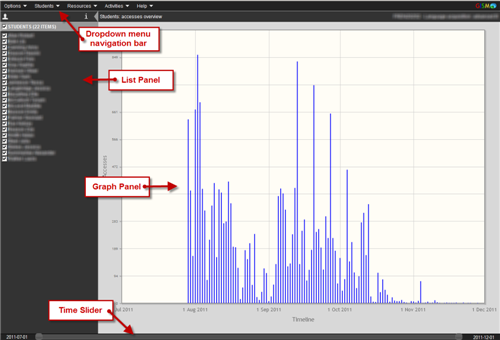
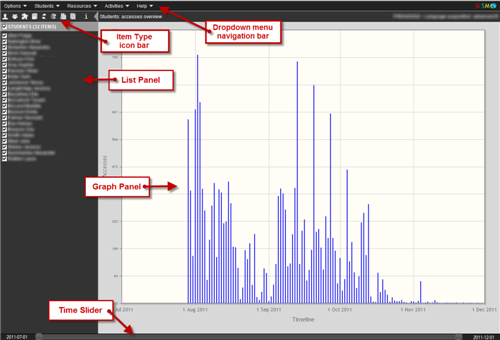
blocks/gismo: update help to add details on filtering, including the new groups list

Changed region(s): [[0.03, 0.0294, 0.36, 0.1765], [0.3, 0.0, 0.57, 0.1471], [0.03, 0.0882, 0.12, 0.1471]]

diff --git a/template/help.php b/template/help.php
@@ -14,6 +14,7 @@
                 <li><a href="#students-accesses-overview">Accesses overview</a></li>
                 <li><a href="#students-accesses-overview-resources">Accesses overview of resources, books, forums, glossaries or wikis</a></li>
                 <li><a href="#student-details-resources">Student details on resources, books, forums, glossaries or wikis</a></li>
+                <li><a href="#groups">Groups and Groupings of students</a></li>
             </ul>
         </li>
         <li><a href="#resources-students-overview">Resources</a>
@@ -36,21 +37,26 @@
     </ul>
     
     <h2 id="overview">Overview &nbsp; <a href="#">[Back to top]</a></h2>
-    <img src="images/help/overview.png" width="500" height="330">
+    <img src="images/help/overview.png?20120323" width="500" height="330">
     <p>
-        There are four areas which make up the LearnTrak user interface:
+        There are five areas which make up the LearnTrak user interface:
     </p>
     <ul>
-        <li>The dropdown menu navigation bar</li>
+        <li>The dropdown menu navigation bar.</li>
+        <li>The Item Type icon bar: Item types chosen from here can include students, groups, resources, books, forums, glossaries, wikis, quizzes and assignments.</li>
         <li>The List Panel: A list of students, resources, or activities in your Learn course will be shown in this panel. From each list the instructor can select or deselect data to visualize, for items chosen using the tick-boxes.</li>
         <li>The Graph Panel: Visualisations are shown in this panel.</li>
         <li>Time Slider: Using this slider the instructor can restrict the graph to display data from a specific range of dates.</li>
     </ul>
     <p>
-        By clicking on items from the dropdown menus under the category headings along the menu bar at the top, graphical representations can be viewed with a focus on the student, the resources or the activities within a Learn site.
+        You can target the student, resource or activity you wish to focus on, from the list panel before you chose the display type. This can be done by clicking on the item type from the icons in the Item Type icon bar, and selecting or deselecting using the instructions below. The system then only looks for data from those items and will display your graph much more quickly.
+    </p>
+    <img src="images/help/lists-help.png" width="306" height="275">
+    <p>
+        By clicking on the display options from the dropdown menus under the category headings along the menu bar at the top, graphical representations can be viewed with a focus on the student, the resources or the activities within a Learn site.
     </p>
     <p>
-        The list of items viewed can be made more specific by using the tick boxes in the list panel. The dates of the information displayed can be made more specific by using the time slider along the bottom of the screen, which can be moved from either end.
+        The dates of the information displayed can be made more specific by using the time slider along the bottom of the screen, which can be moved from either end.
     </p>
     <hr class="category" />
 
@@ -96,6 +102,23 @@
     <p>
         This graph shows an overview of a particular student's accesses to the course's resources. Dates are represented on the X-axis; resources are represented on the Y-axis.
     </p>
+    <hr class="section" />
+    
+    <h2 id="groups">Groups and Groupings of students &nbsp; <a href="#">[Back to top]</a></h2>
+    <p>
+        Any information displayed for students can also be displayed for students in groups.
+    </p>
+    <p>
+        By clicking on the 'Groups' icon <img src="images/help/groups-icon.png" width="23" height="23" /> you can see a list of all the groups and groupings in your course - both those created by teachers, and those groups created automatically.
+    </p>
+    <img src="images/help/display-groupings.png" width="500" height="330">
+    <p>
+        Groups display within their groupings, and those groups which are not in a grouping display beneath them.
+    </p>
+    <p>
+        To see the data for one group of students, select that group by un-ticking all boxes, and ticking just the box for that group.
+    </p>
+    <img src="images/help/chosen-group.png" width="500" height="330">
     <hr class="category" />
     
     <h2 id="resources-students-overview">Resources: Students overview &nbsp; <a href="#">[Back to top]</a></h2>
